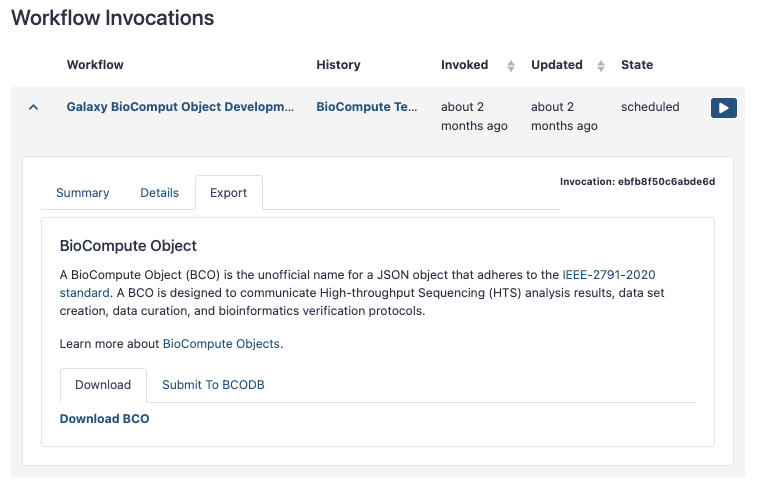
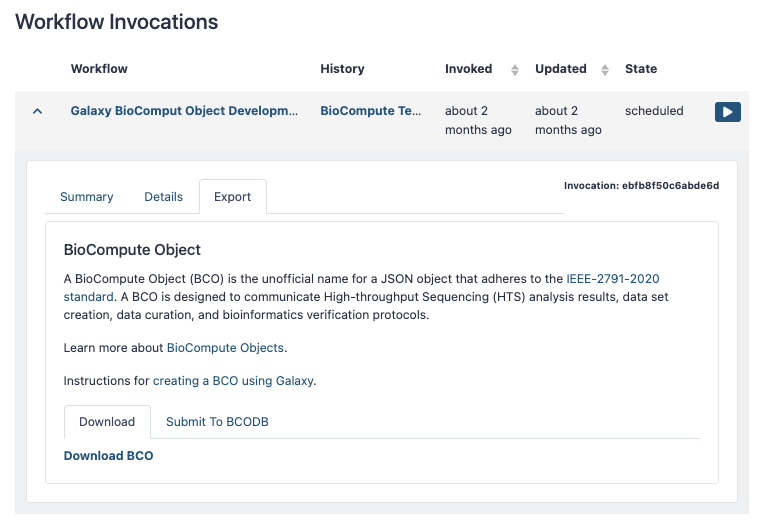
Update to Galaxy tutorial
Changes to be committed:
	modified:   content/galaxy_quick_start.md
	new file:   content/token.png
	new file:   static/images/draft_success.png
	modified:   static/images/export.png
	new file:   static/images/search.png
	new file:   static/images/submit.png
	new file:   static/images/token.png
	new file:   static/images/username.png

diff --git a/content/galaxy_quick_start.md b/content/galaxy_quick_start.md
@@ -38,7 +38,7 @@ Notice the following in the example below:
 * It is also possible to annotate each workflow step or tool individually. Depending on the tool or step this incfomation will also be included. 
 
 <div class="col-lg-10 offset-lg-1 text-center">
-<img src="/images/workflow.png" class="img-fluid mx-auto d-block" alt="">
+<img src="/images/workflow.png" class="img-fluid mx-auto d-block" alt="Workflow detail screen shot">
 </div>
 <br/>
 
@@ -46,7 +46,7 @@ Notice the following in the example below:
 
 * The Galaxy history will also contribute annotation and tags to the BCO 
 <div class="col-lg-10 offset-lg-1 text-center">
-<img src="/images/history.png" class="img-fluid mx-auto d-block" alt="">
+<img src="/images/history.png" class="img-fluid mx-auto d-block" alt="history pane screen shot">
 </div>
 <br/>
 
@@ -58,13 +58,13 @@ There are two methods for exporting a BCO from Galaxy. Download and Submission t
 * Expand the invocation you would like to convert to a BCO
 
 <div class="col-lg-10 offset-lg-1 text-center">
-<img src="/images/invocation.png" class="img-fluid mx-auto d-block" alt="">
+<img src="/images/invocation.png" class="img-fluid mx-auto d-block" alt="workflow invocation detail">
 </div>
 <br/>
 
 * Select the "Export" tab
 <div class="col-lg-10 offset-lg-1 text-center">
-<img src="/images/export.png" class="img-fluid mx-auto d-block" alt="">
+<img src="/images/export.png" class="img-fluid mx-auto d-block" alt="invocation export detail">
 </div>
 <br/>
 
@@ -79,4 +79,49 @@ Submission to the BCODB requires that a user already have an authenticated accou
 an account is verified you will need four peices of information to submit the BCO.
 
 #### BCODB Root URL
-#### 
+
+This is the URL for the BCODD that you are submitting your object to. In most cases it will be the public server at 'https://biocomputeobject.org'. 
+
+#### BCODB User API key
+
+The BCODB User API key OR user Token is found on the [account page](https://biocomputeobject.org/). Expand the "Database, Groups, and Permissions" tab. You will find the token listed in the card for the server you want to submit to. 
+
+<div class="col-lg-10 offset-lg-1 text-center">
+<img src="/images/token.png" class="img-fluid mx-auto d-block" alt="invocation export detail">
+</div>
+<br/>
+
+#### BCODB Prefix
+
+The BCO Prefix is explained [here](https://docs.biocomputeobject.org/top-level/) in the section '2.0.2 BioCompute Object Identifier “object_id”'. The default prefix "BCO" is for general use. Other Prefixs require special permission. Please see the [BCO Prefix Registry](https://biocomputeobject.org/prefix) for more information. 
+
+#### BCODB User Name
+
+The BCODB User Name is found on the [account page](https://biocomputeobject.org/). Expand the "Database, Groups, and Permissions" tab. You will find the username listed in the card for the server you want to submit to, just like the token.
+<div class="col-lg-10 offset-lg-1 text-center">
+<img src="/images/username.png" class="img-fluid mx-auto d-block" alt="invocation export detail">
+</div>
+<br/>
+
+## Submission and next steps
+
+The completed form should look something like the one below:
+
+<div class="col-lg-10 offset-lg-1 text-center">
+<img src="/images/submit.png" class="img-fluid mx-auto d-block" alt="invocation export detail">
+</div>
+<br/>
+
+Upon successful submission you should see the `objct_id` for the BCO just created:
+
+<div class="col-lg-10 offset-lg-1 text-center">
+<img src="/images/draft_success.png" class="img-fluid mx-auto d-block" alt="invocation export detail">
+</div>
+<br/>
+
+To find the object and modify further or publish go to the BCO Portal and search for the identifier Galaxy gave you.
+
+<div class="col-lg-10 offset-lg-1 text-center">
+<img src="/images/search.png" class="img-fluid mx-auto d-block" alt="invocation export detail">
+</div>
+<br/>
